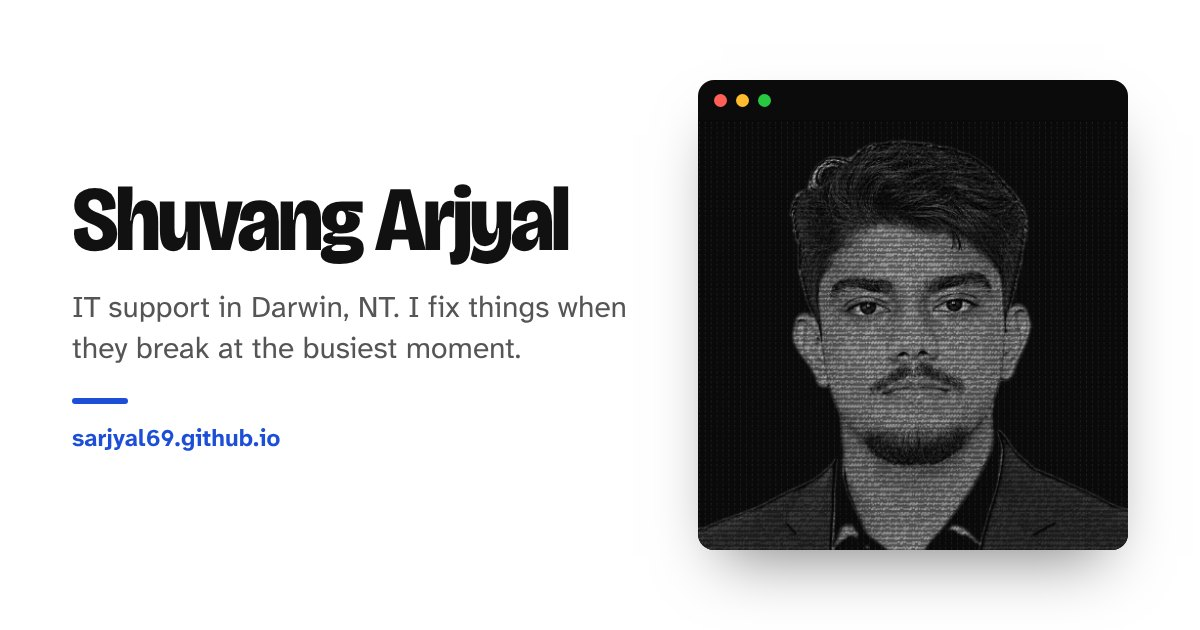
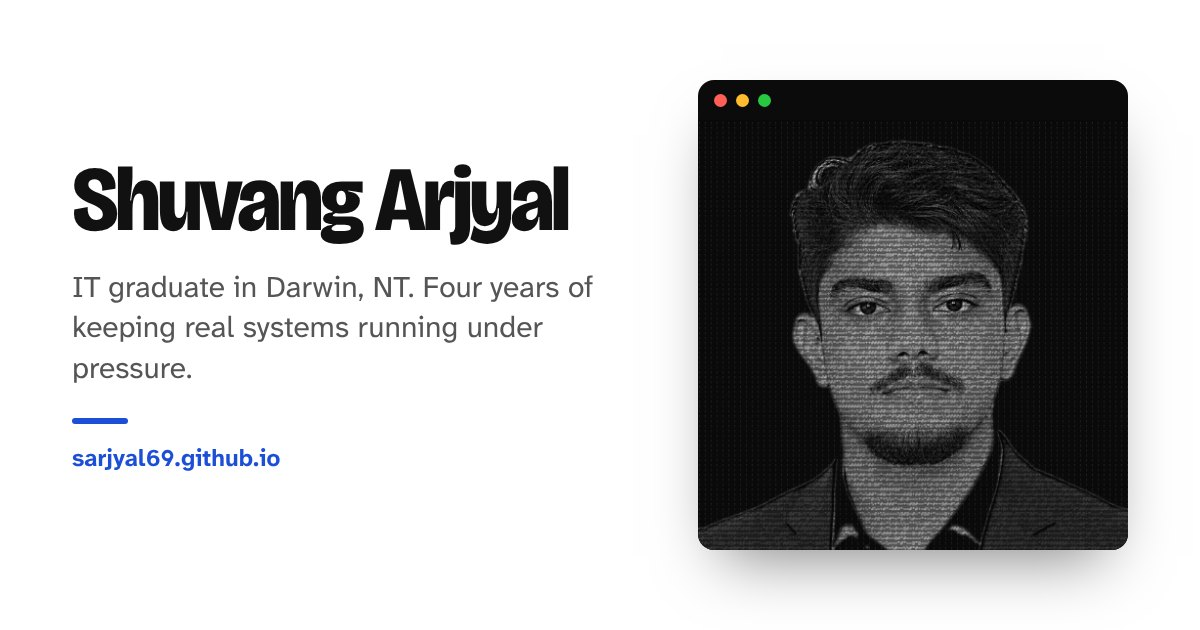
New hook and broader target: IT roles in Darwin (home line, titles, descriptions, footer heading, structured data, llms.txt, share image)
Claude-Session: https://claude.ai/code/session_01VvjPx5DMNDx1X1JcmHKc3n

Changed region(s): [[0.0617, 0.2413, 0.5242, 0.6032], [0.0617, 0.6333, 0.2467, 0.754]]

diff --git a/index.html b/index.html
@@ -5,20 +5,20 @@
 <meta name="referrer" content="strict-origin-when-cross-origin">
 <meta name="theme-color" content="#ffffff">
 <meta name="viewport" content="width=device-width, initial-scale=1, viewport-fit=cover">
-<title>Shuvang Arjyal · IT Support in Darwin, NT</title>
-<meta name="description" content="IT graduate in Darwin, NT with full work rights, looking for IT support and helpdesk roles. Four years fixing kiosks, POS and printers mid-rush.">
+<title>Shuvang Arjyal · IT Graduate in Darwin, NT</title>
+<meta name="description" content="IT graduate in Darwin, NT with full work rights, looking for IT roles. Four years fixing kiosks, POS and printers mid-rush.">
 <link rel="canonical" href="https://sarjyal69.github.io/">
 <meta property="og:type" content="website">
 <meta property="og:site_name" content="Shuvang Arjyal">
-<meta property="og:title" content="Shuvang Arjyal · IT Support in Darwin, NT">
-<meta property="og:description" content="IT graduate in Darwin, NT with full work rights, looking for IT support and helpdesk roles. Four years fixing kiosks, POS and printers mid-rush.">
+<meta property="og:title" content="Shuvang Arjyal · IT Graduate in Darwin, NT">
+<meta property="og:description" content="IT graduate in Darwin, NT with full work rights, looking for IT roles. Four years fixing kiosks, POS and printers mid-rush.">
 <meta property="og:url" content="https://sarjyal69.github.io/">
 <meta property="og:image" content="https://sarjyal69.github.io/assets/og.jpg">
 <meta property="og:image:width" content="1200">
 <meta property="og:image:height" content="630">
-<meta property="og:image:alt" content="Shuvang Arjyal, IT support in Darwin, NT, with a black-and-white terminal-style portrait">
+<meta property="og:image:alt" content="Shuvang Arjyal, IT graduate in Darwin, NT, with a black-and-white terminal-style portrait">
 <meta name="twitter:card" content="summary_large_image">
-<script type="application/ld+json">{"@context":"https://schema.org","@graph":[{"@type":"WebSite","@id":"https://sarjyal69.github.io/#website","url":"https://sarjyal69.github.io/","name":"Shuvang Arjyal","inLanguage":"en-AU"},{"@type":"ProfilePage","@id":"https://sarjyal69.github.io/#profile","url":"https://sarjyal69.github.io/","name":"Shuvang Arjyal · IT Support in Darwin, NT","isPartOf":{"@id":"https://sarjyal69.github.io/#website"},"mainEntity":{"@id":"https://sarjyal69.github.io/#person"}},{"@type":"Person","@id":"https://sarjyal69.github.io/#person","name":"Shuvang Arjyal","url":"https://sarjyal69.github.io/","image":"https://sarjyal69.github.io/assets/shuvang.webp","description":"IT graduate in Darwin, NT with full work rights, looking for IT support and helpdesk roles.","jobTitle":"IT and Automation Intern","worksFor":{"@type":"Organization","name":"DGK Business Consultancy"},"alumniOf":{"@type":"CollegeOrUniversity","name":"Charles Darwin University"},"memberOf":{"@type":"Organization","name":"Australian Computer Society","url":"https://www.acs.org.au/"},"homeLocation":{"@type":"Place","name":"Darwin, NT, Australia"},"email":"mailto:sarjyal69@protonmail.com","sameAs":["https://www.linkedin.com/in/shuv-arjyal-580143424/"],"knowsAbout":["IT support","Troubleshooting","POS and kiosk hardware","Windows","Active Directory","Microsoft 365","Networking","Cybersecurity fundamentals","Workflow automation","n8n","Airtable"]}]}</script>
+<script type="application/ld+json">{"@context":"https://schema.org","@graph":[{"@type":"WebSite","@id":"https://sarjyal69.github.io/#website","url":"https://sarjyal69.github.io/","name":"Shuvang Arjyal","inLanguage":"en-AU"},{"@type":"ProfilePage","@id":"https://sarjyal69.github.io/#profile","url":"https://sarjyal69.github.io/","name":"Shuvang Arjyal · IT Graduate in Darwin, NT","isPartOf":{"@id":"https://sarjyal69.github.io/#website"},"mainEntity":{"@id":"https://sarjyal69.github.io/#person"}},{"@type":"Person","@id":"https://sarjyal69.github.io/#person","name":"Shuvang Arjyal","url":"https://sarjyal69.github.io/","image":"https://sarjyal69.github.io/assets/shuvang.webp","description":"IT graduate in Darwin, NT with full work rights, looking for IT roles.","jobTitle":"IT and Automation Intern","worksFor":{"@type":"Organization","name":"DGK Business Consultancy"},"alumniOf":{"@type":"CollegeOrUniversity","name":"Charles Darwin University"},"memberOf":{"@type":"Organization","name":"Australian Computer Society","url":"https://www.acs.org.au/"},"homeLocation":{"@type":"Place","name":"Darwin, NT, Australia"},"email":"mailto:sarjyal69@protonmail.com","sameAs":["https://www.linkedin.com/in/shuv-arjyal-580143424/"],"knowsAbout":["IT support","Troubleshooting","POS and kiosk hardware","Windows","Active Directory","Microsoft 365","Networking","Cybersecurity fundamentals","Workflow automation","n8n","Airtable"]}]}</script>
 <link rel="icon" href="assets/favicon.svg" type="image/svg+xml">
 <link rel="preload" href="assets/fonts/bricolage.woff2" as="font" type="font/woff2" crossorigin>
 <link rel="preload" href="assets/fonts/atkinson.woff2" as="font" type="font/woff2" crossorigin>
@@ -37,7 +37,7 @@
   <div class="wrap hero">
     <div>
       <h1>Shuvang Arjyal</h1>
-      <p class="lede">I fix things when they break at the busiest moment, and now I want to do it in IT support.</p>
+      <p class="lede">IT graduate with four years of keeping real systems running under pressure, ready for my first IT role in Darwin.</p>
       <div class="actions">
         <a class="btn go" href="contact.html">Get in touch<span class="arrow" aria-hidden="true">→</span></a>
         <a class="btn quiet" href="experience.html">See my experience</a>
@@ -90,7 +90,7 @@
 <footer class="band"><div class="wrap">
   <div class="cta reveal">
     <p class="status"><span class="dot" aria-hidden="true"></span>Available now · Full work rights · Darwin, NT</p>
-    <h2 class="cta-title">Need IT support in Darwin?<br>Let's talk.</h2>
+    <h2 class="cta-title">Hiring for IT in Darwin?<br>Let's talk.</h2>
     <div class="cta-actions">
       <p class="cta-mail"><span class="foot-email">sarjyal69@protonmail.com</span><button type="button" class="copy-mail" data-label="Copy">Copy</button></p>
       <a class="btn cta-btn" href="mailto:sarjyal69@protonmail.com">Email me <span aria-hidden="true">→</span></a>

diff --git a/contact.html b/contact.html
@@ -6,17 +6,17 @@
 <meta name="theme-color" content="#ffffff">
 <meta name="viewport" content="width=device-width, initial-scale=1, viewport-fit=cover">
 <title>Contact, Shuvang Arjyal</title>
-<meta name="description" content="Email Shuvang Arjyal about IT support and helpdesk roles in Darwin, NT. Available to start now.">
+<meta name="description" content="Email Shuvang Arjyal about IT roles in Darwin, NT. Available to start now.">
 <link rel="canonical" href="https://sarjyal69.github.io/contact.html">
 <meta property="og:type" content="website">
 <meta property="og:site_name" content="Shuvang Arjyal">
 <meta property="og:title" content="Contact, Shuvang Arjyal">
-<meta property="og:description" content="Email Shuvang Arjyal about IT support and helpdesk roles in Darwin, NT. Available to start now.">
+<meta property="og:description" content="Email Shuvang Arjyal about IT roles in Darwin, NT. Available to start now.">
 <meta property="og:url" content="https://sarjyal69.github.io/contact.html">
 <meta property="og:image" content="https://sarjyal69.github.io/assets/og.jpg">
 <meta property="og:image:width" content="1200">
 <meta property="og:image:height" content="630">
-<meta property="og:image:alt" content="Shuvang Arjyal, IT support in Darwin, NT, with a black-and-white terminal-style portrait">
+<meta property="og:image:alt" content="Shuvang Arjyal, IT graduate in Darwin, NT, with a black-and-white terminal-style portrait">
 <meta name="twitter:card" content="summary_large_image">
 <link rel="icon" href="assets/favicon.svg" type="image/svg+xml">
 <link rel="preload" href="assets/fonts/bricolage.woff2" as="font" type="font/woff2" crossorigin>
@@ -50,7 +50,7 @@
 <footer class="band"><div class="wrap">
   <div class="cta reveal">
     <p class="status"><span class="dot" aria-hidden="true"></span>Available now · Full work rights · Darwin, NT</p>
-    <h2 class="cta-title">Need IT support in Darwin?<br>Let's talk.</h2>
+    <h2 class="cta-title">Hiring for IT in Darwin?<br>Let's talk.</h2>
     <div class="cta-actions">
       <p class="cta-mail"><span class="foot-email">sarjyal69@protonmail.com</span><button type="button" class="copy-mail" data-label="Copy">Copy</button></p>
       <a class="btn cta-btn" href="mailto:sarjyal69@protonmail.com">Email me <span aria-hidden="true">→</span></a>

diff --git a/education.html b/education.html
@@ -16,7 +16,7 @@
 <meta property="og:image" content="https://sarjyal69.github.io/assets/og.jpg">
 <meta property="og:image:width" content="1200">
 <meta property="og:image:height" content="630">
-<meta property="og:image:alt" content="Shuvang Arjyal, IT support in Darwin, NT, with a black-and-white terminal-style portrait">
+<meta property="og:image:alt" content="Shuvang Arjyal, IT graduate in Darwin, NT, with a black-and-white terminal-style portrait">
 <meta name="twitter:card" content="summary_large_image">
 <link rel="icon" href="assets/favicon.svg" type="image/svg+xml">
 <link rel="preload" href="assets/fonts/bricolage.woff2" as="font" type="font/woff2" crossorigin>
@@ -61,7 +61,7 @@
 <footer class="band"><div class="wrap">
   <div class="cta reveal">
     <p class="status"><span class="dot" aria-hidden="true"></span>Available now · Full work rights · Darwin, NT</p>
-    <h2 class="cta-title">Need IT support in Darwin?<br>Let's talk.</h2>
+    <h2 class="cta-title">Hiring for IT in Darwin?<br>Let's talk.</h2>
     <div class="cta-actions">
       <p class="cta-mail"><span class="foot-email">sarjyal69@protonmail.com</span><button type="button" class="copy-mail" data-label="Copy">Copy</button></p>
       <a class="btn cta-btn" href="mailto:sarjyal69@protonmail.com">Email me <span aria-hidden="true">→</span></a>

diff --git a/experience.html b/experience.html
@@ -16,7 +16,7 @@
 <meta property="og:image" content="https://sarjyal69.github.io/assets/og.jpg">
 <meta property="og:image:width" content="1200">
 <meta property="og:image:height" content="630">
-<meta property="og:image:alt" content="Shuvang Arjyal, IT support in Darwin, NT, with a black-and-white terminal-style portrait">
+<meta property="og:image:alt" content="Shuvang Arjyal, IT graduate in Darwin, NT, with a black-and-white terminal-style portrait">
 <meta name="twitter:card" content="summary_large_image">
 <link rel="icon" href="assets/favicon.svg" type="image/svg+xml">
 <link rel="preload" href="assets/fonts/bricolage.woff2" as="font" type="font/woff2" crossorigin>
@@ -78,7 +78,7 @@
 <footer class="band"><div class="wrap">
   <div class="cta reveal">
     <p class="status"><span class="dot" aria-hidden="true"></span>Available now · Full work rights · Darwin, NT</p>
-    <h2 class="cta-title">Need IT support in Darwin?<br>Let's talk.</h2>
+    <h2 class="cta-title">Hiring for IT in Darwin?<br>Let's talk.</h2>
     <div class="cta-actions">
       <p class="cta-mail"><span class="foot-email">sarjyal69@protonmail.com</span><button type="button" class="copy-mail" data-label="Copy">Copy</button></p>
       <a class="btn cta-btn" href="mailto:sarjyal69@protonmail.com">Email me <span aria-hidden="true">→</span></a>

diff --git a/how-i-work.html b/how-i-work.html
@@ -16,7 +16,7 @@
 <meta property="og:image" content="https://sarjyal69.github.io/assets/og.jpg">
 <meta property="og:image:width" content="1200">
 <meta property="og:image:height" content="630">
-<meta property="og:image:alt" content="Shuvang Arjyal, IT support in Darwin, NT, with a black-and-white terminal-style portrait">
+<meta property="og:image:alt" content="Shuvang Arjyal, IT graduate in Darwin, NT, with a black-and-white terminal-style portrait">
 <meta name="twitter:card" content="summary_large_image">
 <link rel="icon" href="assets/favicon.svg" type="image/svg+xml">
 <link rel="preload" href="assets/fonts/bricolage.woff2" as="font" type="font/woff2" crossorigin>
@@ -94,7 +94,7 @@
 <footer class="band"><div class="wrap">
   <div class="cta reveal">
     <p class="status"><span class="dot" aria-hidden="true"></span>Available now · Full work rights · Darwin, NT</p>
-    <h2 class="cta-title">Need IT support in Darwin?<br>Let's talk.</h2>
+    <h2 class="cta-title">Hiring for IT in Darwin?<br>Let's talk.</h2>
     <div class="cta-actions">
       <p class="cta-mail"><span class="foot-email">sarjyal69@protonmail.com</span><button type="button" class="copy-mail" data-label="Copy">Copy</button></p>
       <a class="btn cta-btn" href="mailto:sarjyal69@protonmail.com">Email me <span aria-hidden="true">→</span></a>

diff --git a/skills.html b/skills.html
@@ -16,7 +16,7 @@
 <meta property="og:image" content="https://sarjyal69.github.io/assets/og.jpg">
 <meta property="og:image:width" content="1200">
 <meta property="og:image:height" content="630">
-<meta property="og:image:alt" content="Shuvang Arjyal, IT support in Darwin, NT, with a black-and-white terminal-style portrait">
+<meta property="og:image:alt" content="Shuvang Arjyal, IT graduate in Darwin, NT, with a black-and-white terminal-style portrait">
 <meta name="twitter:card" content="summary_large_image">
 <link rel="icon" href="assets/favicon.svg" type="image/svg+xml">
 <link rel="preload" href="assets/fonts/bricolage.woff2" as="font" type="font/woff2" crossorigin>
@@ -50,7 +50,7 @@
 <footer class="band"><div class="wrap">
   <div class="cta reveal">
     <p class="status"><span class="dot" aria-hidden="true"></span>Available now · Full work rights · Darwin, NT</p>
-    <h2 class="cta-title">Need IT support in Darwin?<br>Let's talk.</h2>
+    <h2 class="cta-title">Hiring for IT in Darwin?<br>Let's talk.</h2>
     <div class="cta-actions">
       <p class="cta-mail"><span class="foot-email">sarjyal69@protonmail.com</span><button type="button" class="copy-mail" data-label="Copy">Copy</button></p>
       <a class="btn cta-btn" href="mailto:sarjyal69@protonmail.com">Email me <span aria-hidden="true">→</span></a>

diff --git a/404.html b/404.html
@@ -6,7 +6,7 @@
 <meta name="theme-color" content="#ffffff">
 <meta name="viewport" content="width=device-width, initial-scale=1, viewport-fit=cover">
 <title>Page not found, Shuvang Arjyal</title>
-<meta name="description" content="Shuvang Arjyal: IT support in Darwin, NT.">
+<meta name="description" content="Shuvang Arjyal: IT graduate in Darwin, NT.">
 <link rel="icon" href="/assets/favicon.svg" type="image/svg+xml">
 <link rel="preload" href="/assets/fonts/bricolage.woff2" as="font" type="font/woff2" crossorigin>
 <link rel="preload" href="/assets/fonts/atkinson.woff2" as="font" type="font/woff2" crossorigin>

diff --git a/README.md b/README.md
@@ -2,7 +2,7 @@
 
 Live site: https://sarjyal69.github.io
 
-A plain, readable portfolio for IT support and helpdesk roles in Darwin, NT, across six pages: home, experience, how I work, skills, education and contact.
+A plain, readable portfolio for IT roles in Darwin, NT, across six pages: home, experience, how I work, skills, education and contact.
 
 - **Home:** my name, a one-line pitch, a few real figures, and my portrait as a black-and-white terminal window (with a button to see the real photo).
 - **Experience and How I work:** my roles and four problems I solved, told as situation, task, action and result.
